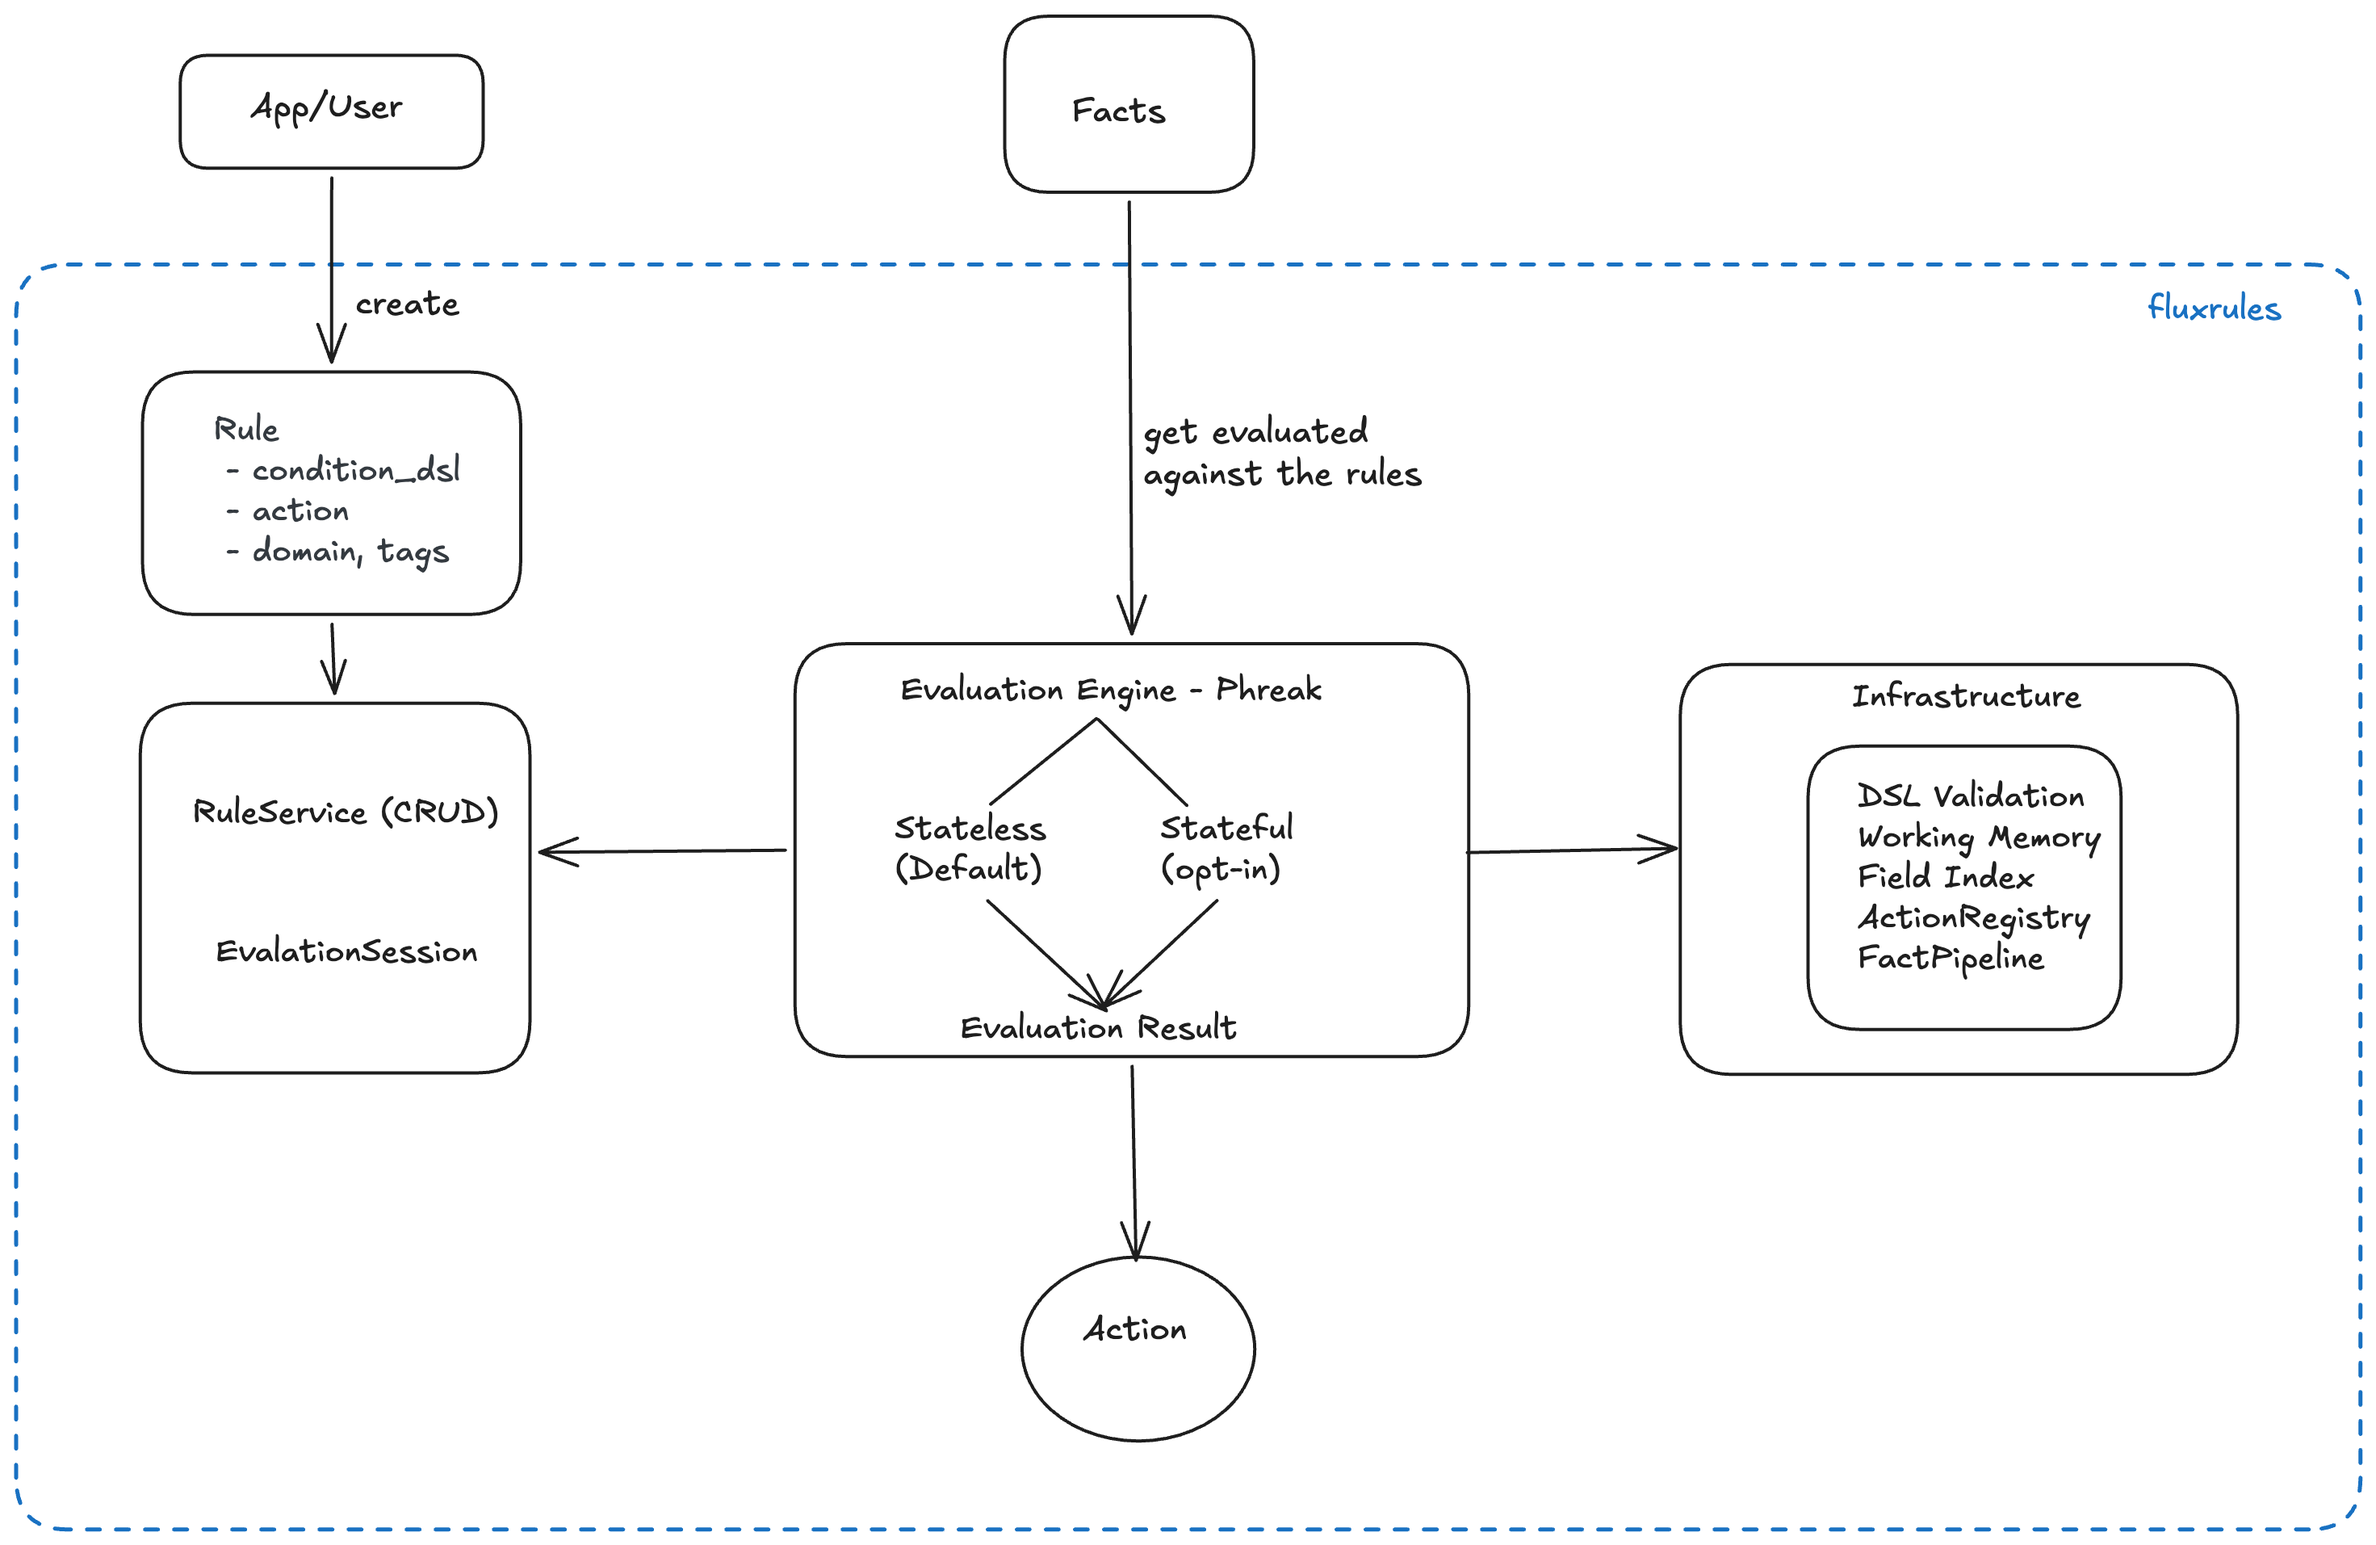
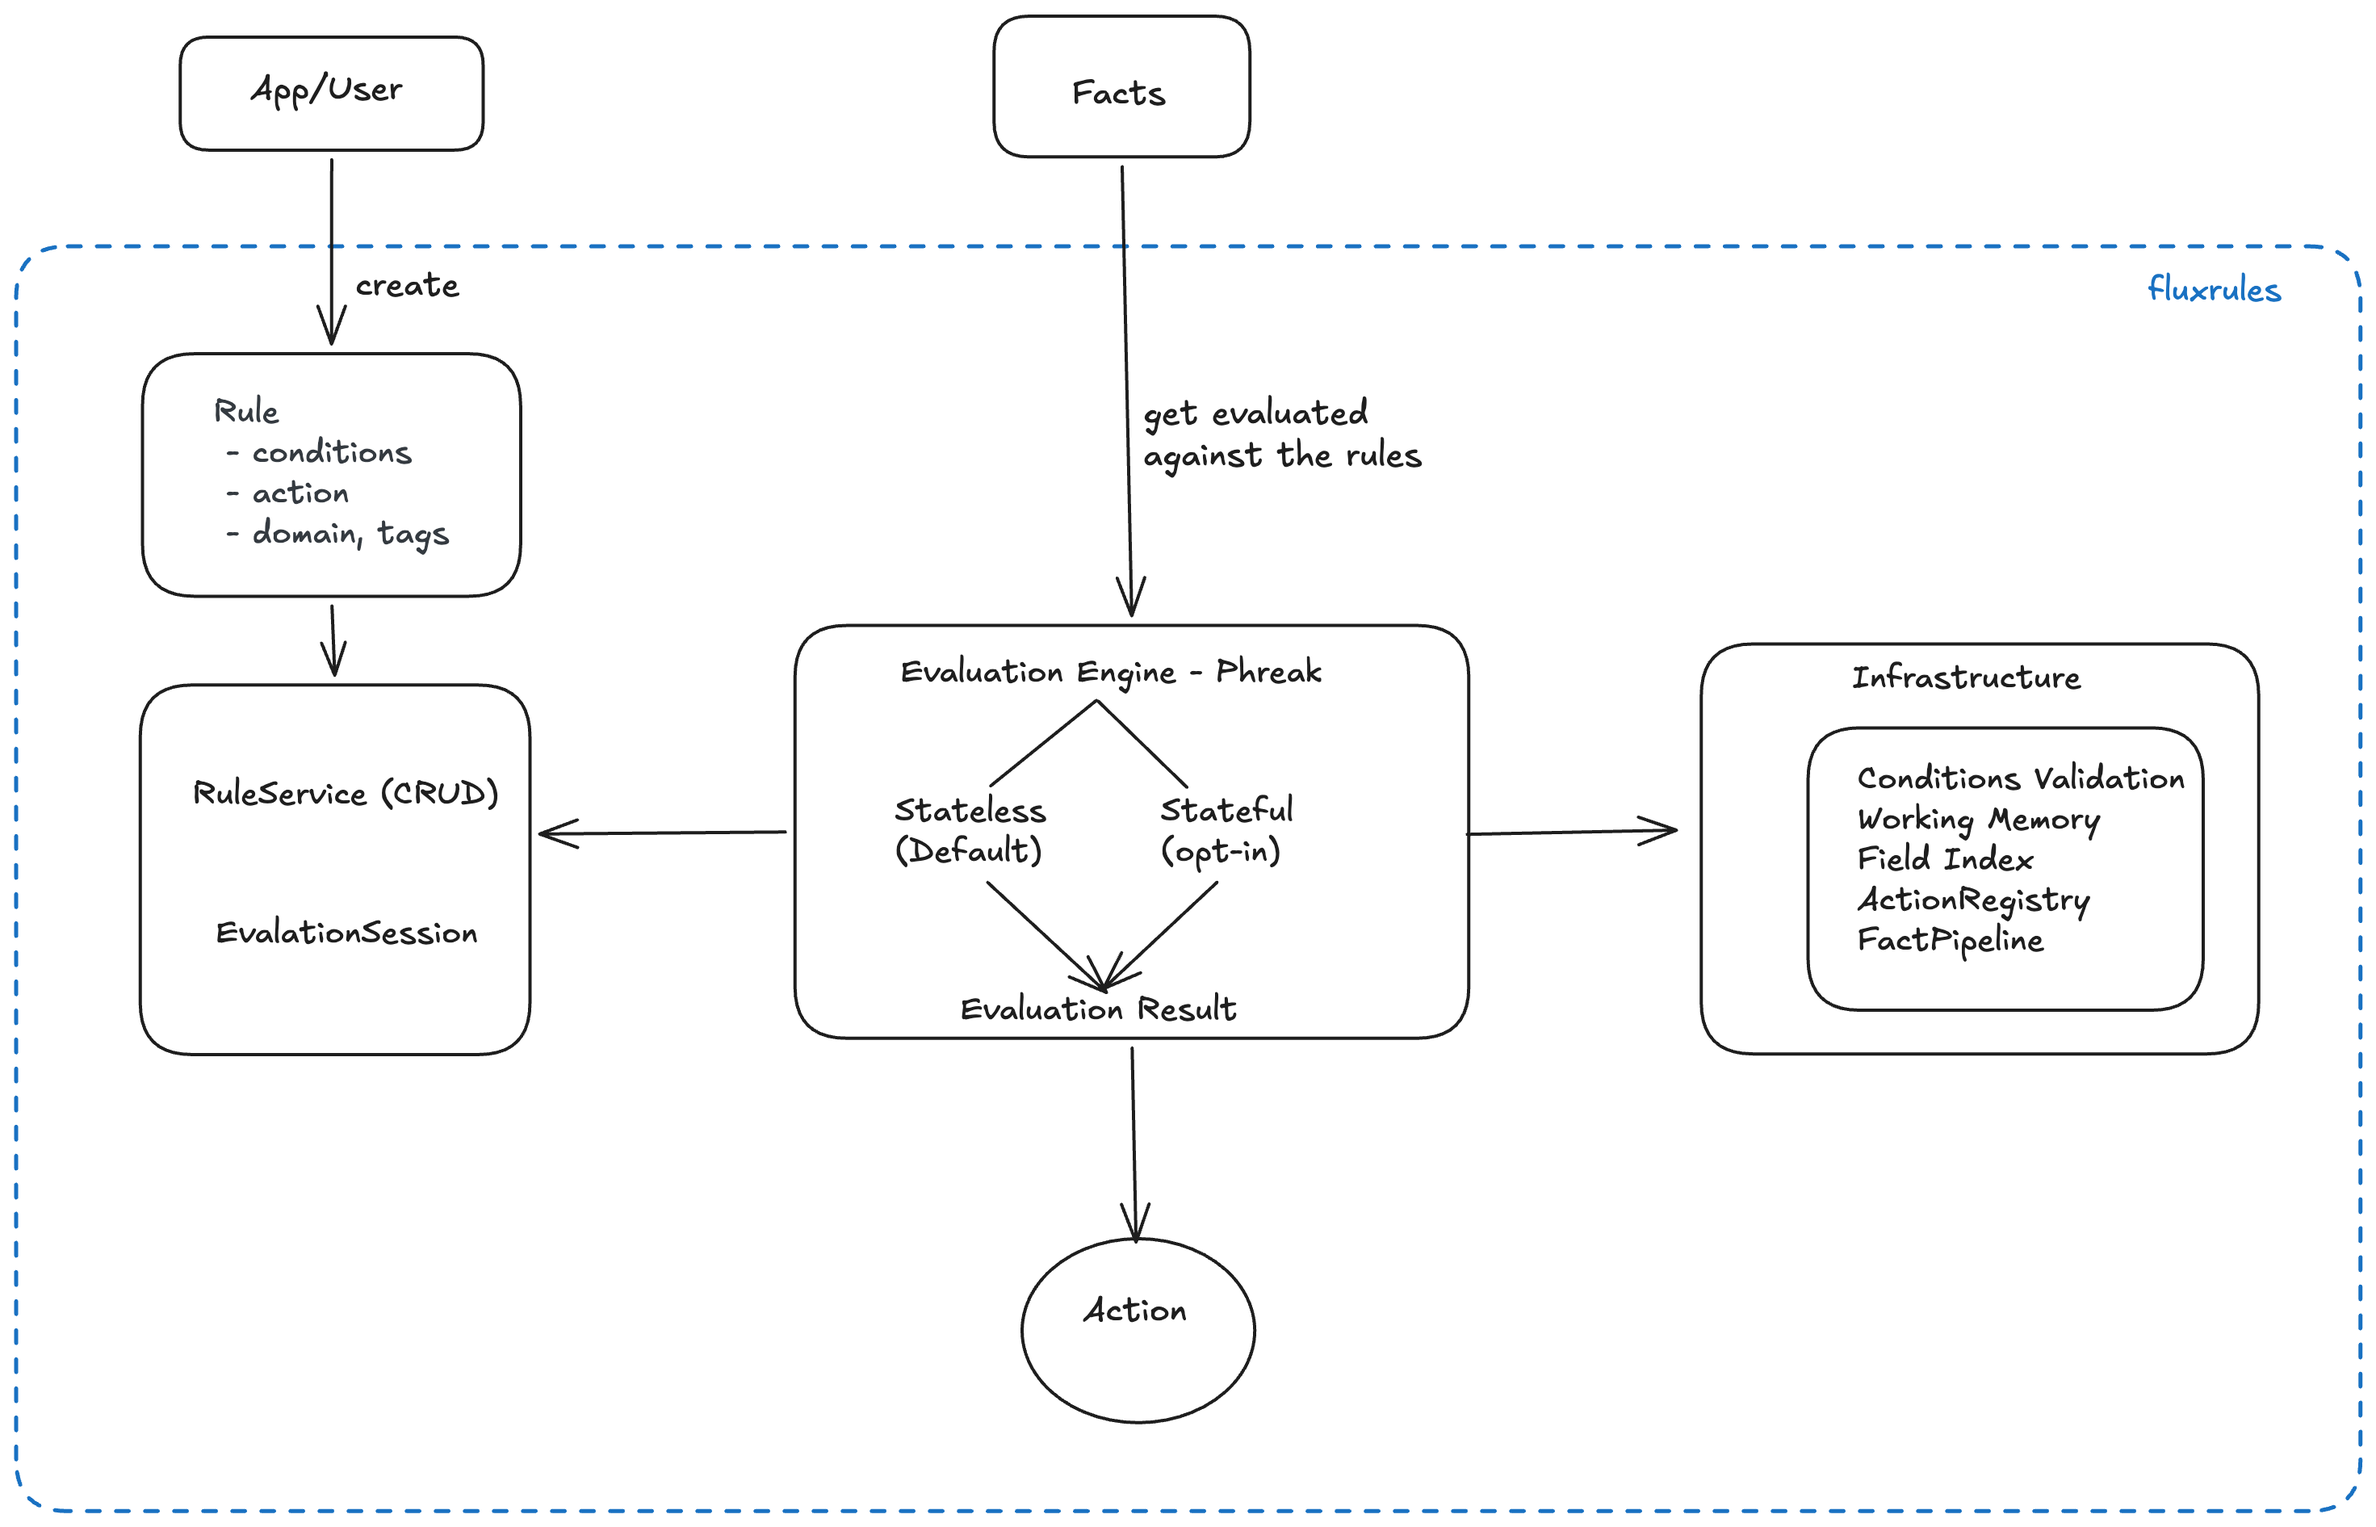
docs: review pass — installation, persistence, architecture and API pages
- installation.md: lead with pip/uv install from PyPI; remove git-clone
  from the recommended path; drop maintainer steps (wheel smoke, check_uv)
- persistence.md: fix multi-dialect note (backend="postgres" stays fixed
  regardless of dialect); correct fallback log level DEBUG → INFO; clarify
  priority order wording
- User edits to architecture.md, concepts.md, rest-api.md, engines.md,
  public-api.md, mkdocs.yml and system_architecture.png

diff --git a/docs/installation.md b/docs/installation.md
@@ -1,123 +1,58 @@
 # Installation
 
-This is the reference install guide for FluxRules. For a quick hands-on local setup,
-see [getting-started.md](getting-started.md).
+## Install from PyPI
 
-## Recommended: install with uv
-
-Use uv for a fast project-local environment and dependency management:
+The simplest way to add FluxRules to your project:
 
 ```bash
-git clone https://github.com/saurabh2mishra/fluxrules.git
-cd fluxrules
-uv sync --extra dev
+pip install fluxrules
 ```
 
-This creates the project virtual environment and installs the core package plus the
-local development toolchain.
-
-## Install the published package
-
-After creating a virtual environment, install the published package into it:
+With [uv](https://docs.astral.sh/uv/) (recommended for new projects):
 
 ```bash
-python -m venv .venv
-source .venv/bin/activate
-python -m pip install --upgrade pip
-python -m pip install fluxrules
+uv add fluxrules
 ```
 
-## Install from a checkout
-
-```bash
-git clone https://github.com/saurabh2mishra/fluxrules.git
-cd fluxrules
-python -m venv .venv
-source .venv/bin/activate
-python -m pip install --upgrade pip
-python -m pip install .
-```
-
-For the same workflow with uv:
-
-```bash
-git clone https://github.com/saurabh2mishra/fluxrules.git
-cd fluxrules
-uv sync
-```
-
-The base package requires `pydantic>=2.8` (declared in `pyproject.toml`).
+That is all you need to start. No git clone required.
 
 ## Optional extras
 
-Install extras into the active environment:
+The base package includes the core rule engine. Install extras to unlock integrations:
+
+| Extra | What it adds |
+|---|---|
+| `api` | FastAPI HTTP server, SQLAlchemy ORM, JWT auth |
+| `sql` | SQLAlchemy + Alembic for database persistence |
+| `redis` | Redis-backed persistence adapter |
+| `otel` | OpenTelemetry tracing |
+| `yaml` | YAML rule file loading |
+| `cli` | `fluxrules` command-line tool |
+| `all` | Everything above |
 
 ```bash
-python -m pip install '.[api]'
-python -m pip install '.[sql]'
-python -m pip install '.[redis]'
-python -m pip install '.[otel]'
-python -m pip install '.[yaml]'
-python -m pip install '.[cli]'
-python -m pip install '.[docs]'
+pip install 'fluxrules[api]'
+pip install 'fluxrules[sql]'
+pip install 'fluxrules[yaml]'
+pip install 'fluxrules[cli]'
+pip install 'fluxrules[all]'
 ```
 
-With uv, use:
+With uv:
 
 ```bash
-uv pip install '.[api]'
-uv pip install '.[sql]'
-uv pip install '.[redis]'
-uv pip install '.[otel]'
-uv pip install '.[yaml]'
-uv pip install '.[cli]'
-uv pip install '.[docs]'
-```
-
-## Install all extras
-
-```bash
-python -m pip install '.[all]'
-# or
-uv pip install '.[all]'
-```
-
-The base package is the supported core API. Extras add integrations without changing
-core `Rule`, `Ruleset`, and `PhreakEngine` behavior.
-
-## Development install
-
-```bash
-python scripts/check_uv.py
-uv sync --extra dev
-```
-
-If you want the project build wrapper, `make build` is available, but the direct uv
-command is the simplest and most portable option:
-
-```bash
-uv build
+uv add 'fluxrules[api]'
+uv add 'fluxrules[sql]'
+uv add 'fluxrules[all]'
 ```
 
 ## Verify the install
-
-From an active virtual environment:
 
 ```bash
 python -c "import fluxrules; print(fluxrules.__version__)"
 ```
 
-From a project checkout managed by uv:
+## Requirements
 
-```bash
-uv run python -c "import fluxrules; print(fluxrules.__version__)"
-```
+- Python 3.10 or later
 
-## Build and verify a wheel
-
-```bash
-uv build
-python -m venv /tmp/fluxrules-wheel-smoke
-/tmp/fluxrules-wheel-smoke/bin/python -m pip install dist/*.whl
-/tmp/fluxrules-wheel-smoke/bin/python -c "import fluxrules; print(fluxrules.__version__)"
-```

diff --git a/docs/persistence.md b/docs/persistence.md
@@ -140,7 +140,7 @@ Persist audit records to your logging backend as needed.
 
 - **SQLite** (default, development, single-file)
 - **PostgreSQL** (production, scales to 100K+ rules)
-- **SQL Server, MySQL, and any SQLAlchemy-supported dialect** — via the ServiceFactory path below
+- **MySQL, SQL Server, and any other SQLAlchemy-supported dialect** — via the ServiceFactory path below; see the note on `backend` in that section
 
 ---
 
@@ -194,20 +194,36 @@ rule = Rule(
 )
 ```
 
-The same pattern works for SQL Server, MySQL, or any dialect SQLAlchemy supports —
-just change the `DATABASE_URL` scheme (e.g. `mssql+pyodbc://...`).
+`SQLAlchemyPersistenceAdapter` is dialect-agnostic — it works with any database
+SQLAlchemy supports (PostgreSQL, MySQL, SQL Server, SQLite). The key thing to know:
+`backend="postgres"` is the configuration value that activates the SQLAlchemy path
+in `ServiceFactory`, regardless of the actual database dialect. Change the
+`DATABASE_URL` scheme for your target database but keep `backend="postgres"`:
+
+```python
+# MySQL
+DATABASE_URL = "mysql+pymysql://user:pass@db.example.com/fluxrules"
+
+# SQL Server
+DATABASE_URL = "mssql+pyodbc://user:pass@db.example.com/fluxrules?driver=ODBC+Driver+17+for+SQL+Server"
+```
+
+The rest of the setup — `session_provider`, `ServiceFactory.create_persistence_adapter()` —
+is identical.
 
 ### Priority order
 
 When `persist=True` is used, fluxrules checks in this order:
 
 1. **ServiceFactory adapter** — if one is registered and it is not the in-memory
-   fallback, it is used. This covers Postgres, SQL Server, and any custom adapter.
+   fallback, it is used. This covers any SQLAlchemy-backed dialect (Postgres, MySQL,
+   SQL Server) as long as `backend="postgres"` was set at registration time.
 2. **DBConnectionManager** — the `initialize_persistence()` / env-var path. Used
    when no ServiceFactory adapter is registered (the common case for standalone
    scripts and simple deployments).
 3. **Fallback** — if neither is reachable, a locally generated ID is assigned and
-   a `DEBUG`-level log entry is emitted. The rule is still usable in-memory.
+   an `INFO`-level log entry is emitted (`"No database configured; using in-memory mode"`).
+   The rule is still usable in-memory.
 
 > **Note — table creation:** `ServiceFactory` does not create database tables.
 > When using the ServiceFactory path you are responsible for running schema

diff --git a/docs/concepts.md b/docs/concepts.md
@@ -3,7 +3,6 @@
 This page introduces the fundamental concepts you need to work with FluxRules. All code references are to `src/fluxrules/`.
 
 ---
-
 ## Rule
 
 A **Rule** is the core abstraction. It combines a condition, an action, and metadata for organization.
@@ -29,12 +28,19 @@ rule = Rule(
 ```
 
 **Key Attributes:**
+
 - `id` - Auto-generated unique identifier (or manual override)
+
 - `name` - Human-readable rule name
+
 - `domain` - Logical grouping (e.g., "fraud_detection", "compliance")
+
 - `tags` - String set for filtering and categorization
+
 - `conditions` - Nested tree defining when the rule fires
+
 - `action` - What to do when the rule matches
+
 - `priority` - Execution order (higher = runs first)
 
 **See:** [examples/18_unified_rule.py](https://github.com/saurabh2mishra/fluxrules/blob/main/examples/18_unified_rule.py)
@@ -94,8 +100,11 @@ fact = {
 ## Conditions
 
 A **condition tree** is a nested tree that defines when a rule fires. It combines:
+
 - Simple conditions (field comparisons)
+
 - Logical operators (AND, OR, NOT)
+
 - Nested groups
 
 **Basic condition:**
@@ -164,12 +173,10 @@ print(f"Time: {result.latency_ms}ms")     # 1.2ms
 
 ## Domain
 
-A **Domain** is a logical grouping of rules. Rules with the same domain typically handle a specific problem area.
+A **Domain** is a logical grouping of rules. Rules with the same domain typically handle a specific problem area. 
 
-**Common domains in payment risk:**
-- `fraud_detection` - Anti-fraud rules
-- `compliance` - Regulatory rules
-- `risk_ops` - Risk assessment rules
+For example depending on how your rules are grouped you can give a name e.g. `compliance` or `fraud_detections` etc.
+
 
 **Filtering by domain:**
 ```python
@@ -196,12 +203,6 @@ engine.load_rules(fraud_rules)
 ## Tag
 
 A **Tag** is a string label for categorization and filtering.
-
-**Typical tags:**
-- `tier_0`, `tier_1`, `tier_2` - Rule priority tiers
-- `cross_border` - Rules for cross-border scenarios
-- `manual_review` - Rules requiring human review
-- `auto_approve` - Rules for automatic approval
 
 **Filtering by tag:**
 ```python

diff --git a/docs/reference/public-api.md b/docs/reference/public-api.md
@@ -39,7 +39,8 @@ Cross-Fact activation delta is intentionally not comparable to a stateless
 
 From `fluxrules`:
 
-- `evaluate(rules, facts) → EvaluationResult` - Evaluate facts against rules. `rules` may be a single `Rule`, any iterable of `Rule`, or a `Ruleset`. `facts` may be a plain `dict`, a Pydantic v2/v1 model, or any object with `model_dump()` / `dict()`.
+- `evaluate(rules, facts) → EvaluationResult` - Evaluate facts against rules. `rules` may be a single `Rule`, any iterable of `Rule`, or a `Ruleset`. 
+- `facts` may be a plain python `dict`, a Pydantic v2/v1 model, or any object with `model_dump()` / `dict()`.
 - `validate(rules) → list[str]` - Validate rules and return issues; accepts the same shapes as `evaluate`
 - `explain(execution_id: str) → dict[str, object]` - Get an explanation payload for a past execution; keys: `execution_id`, `fired_rules`, `actions`, `trace`
 
@@ -63,8 +64,8 @@ From `fluxrules`:
   `fired_rules`), `ruleset_group`, `trace`, `execution_id`, `latency_ms`,
   `engine_type`, `explanations`, `rules_by_domain`, `rules_by_tag`,
   `fired_segments`.
-  `fluxrules.engine.infrastructure.EvaluationResult` is a re-export of this
-  same class, not a second type.
+
+  `fluxrules.engine.infrastructure.EvaluationResult` is a re-export of this same class, not a second type.
 
 ## Service Layer
 

diff --git a/docs/architecture.md b/docs/architecture.md
@@ -78,9 +78,13 @@ Fact input → [Linear iteration over rules]
 ```
 
 **Stateless mode (default):**
+
 - Most HTTP/stateless workloads
+
 - Rules added/removed frequently
+
 - Low memory footprint required
+
 - Single-fact evaluation (typical)
 
 ---
@@ -101,8 +105,11 @@ Fact input → [Assert into working memory]
 ```
 
 **When to use:**
+
 - Many facts over same rule set within a session
+
 - Event streams where only changes matter
+
 - Incremental fact updates (assert/retract)
 
 ---
@@ -156,9 +163,13 @@ Rule(
 ```
 
 **Key design:**
+
 - Rule is immutable once created (frozen Pydantic model)
+
 - Conditions are pure predicates (no side effects)
+
 - Actions are simple strings or callables
+
 - Domain/tags allow flexible rule organization
 
 ---

diff --git a/docs/rest-api.md b/docs/rest-api.md
@@ -3,7 +3,6 @@
 **Prerequisites:** [API](api.md) (core endpoints).
 
 ---
-
 Comprehensive reference for all REST API endpoints.
 
 ## Request/Response Format
@@ -11,6 +10,7 @@ Comprehensive reference for all REST API endpoints.
 All requests use `Content-Type: application/json`.
 
 All responses include:
+
 - `fired_rules` - List of matched rule IDs
 - `actions` - List of triggered actions
 - `latency_ms` - Evaluation time in milliseconds
@@ -209,6 +209,7 @@ All errors follow this format:
 ```
 
 Common error codes:
+
 - `VALIDATION_ERROR` - Invalid request format
 - `DSL_ERROR` - Invalid condition tree syntax
 - `RULE_NOT_FOUND` - Rule ID does not exist

diff --git a/docs/usage/engines.md b/docs/usage/engines.md
@@ -1,6 +1,6 @@
-# Engine Selection
+# Engine
 
-## Available Engine
+## Phreak Engine
 
 - `fluxrules.engine.phreak.PhreakEngine` (the single production engine)
 
